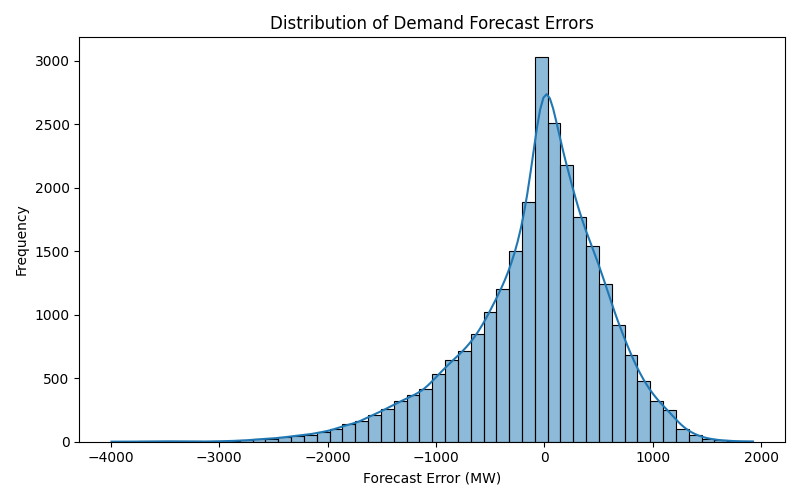
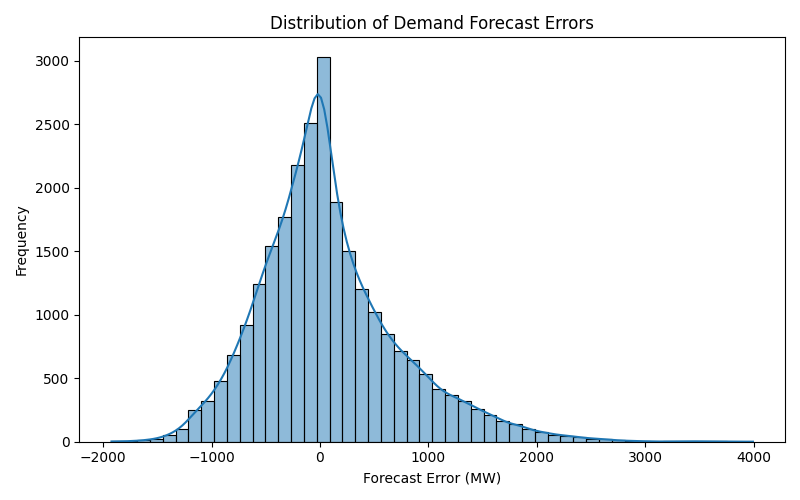
Corrected demand error formula, and implemented data_utils

diff --git a/utils/data_utils.py b/utils/data_utils.py
@@ -1,0 +1,69 @@
+import pandas as pd 
+import numpy as np
+from pathlib import Path
+
+data_dir = Path(__file__).resvolve().parents[1]/"data"
+
+def load_generator_parameters():
+    """
+    Columns in csv: 'generator_index', 'type', 'max_capacity', 
+    'ramp_up', 'ramp_down', 'marginal_cost'
+    """
+
+    df = pd.read_csv(data_dir/"Parameters_generators_NL.csv", sep=";")
+    df = df.sort_values("generator_index")
+
+    generator_ids = df["generator_index"].astype(int).toList()
+    k = df["max_capacity"].to_numpy(dtype=float)
+    gamma_u = df["ramp_up"].to_numpy(dtype=float)
+    gamma_d = df["ramp_down"].to_numpy(dtype=float)
+    c = df["marginal_cost"].to_numpy(dtype=float)
+
+    return generator_ids, c, k, gamma_u, gamma_d
+
+def compute_emission_means():
+    """
+    Columns in csv: 'Time', 'Emission_rate_g1', ..., 'Emission_rate_g22'
+
+    Returns mu_emission array
+        mean_emission[j - 1] = mean Emission_rate_g{j}
+    """
+
+    df = pd.read_csv(data_dir/"Emission_2020_2022.csv", sep=";")
+
+    generator_cols = [f"Emission_rate_g{i}" for i in range(1,23)]
+    mean_emission = df[generator_cols].mean(axis=0).to_numpy(dtype=float)
+
+    return mean_emission
+
+def load_demand_forecast():
+    df = pd.read_csv(data_dir/"Demand_forecast_20221209.csv", sep=";")
+    df["Time"] = pd.to_datetime(df["Time"], format="mixed", dayfirst=True)
+    df = df.sort_values("Time")
+     
+    forecast = df["Forecasted_residual_demand"].to_numpy(dtype=float)
+    return forecast
+
+def compute_demand_residuals(cutoff_date="2022-12-09"):
+    """
+    error = realized_residual_demand - forecasted_residual_demand
+    """
+    df = pd.read_csv(data_dir/"Demand_2020_2022.csv", sep=";")
+    df["Time"] = pd.to_datetime(df["Time"], format="mixed", dayfirst=True)
+
+    cutoff_ts = pd.to_datetime(cutoff_date)
+    history = df[df["Time"] < cutoff_ts].copy()
+
+    history["error"] = (
+        history["Realized_residual_demand"]
+        - history["Forecasted_residual_demand"]
+    )
+
+    history["hour"] = history["Time"].dt.hour
+
+    residuals_by_hour = []
+    for h in range(24):
+        values = history.loc[history["hour"] == h, "error"].to_numpy(dtype=float)
+        residuals_by_hour.append(values)
+
+    return residuals_by_hour

diff --git a/data_analysis/analyze_demand.py b/data_analysis/analyze_demand.py
@@ -8,7 +8,7 @@ from load_data import load_demand_history
 def analyze_demand_errors(): 
     df = load_demand_history()
 
-    df["error"] = df["Forecasted_residual_demand"] - df["Realized_residual_demand"]
+    df["error"] = df["Realized_residual_demand"] - df["Forecasted_residual_demand"]
 
     df["hour"] = df["Time"].dt.hour
 

diff --git a/models/ouu_model.py b/models/ouu_model.py
@@ -1,0 +1,1 @@
+import utils
